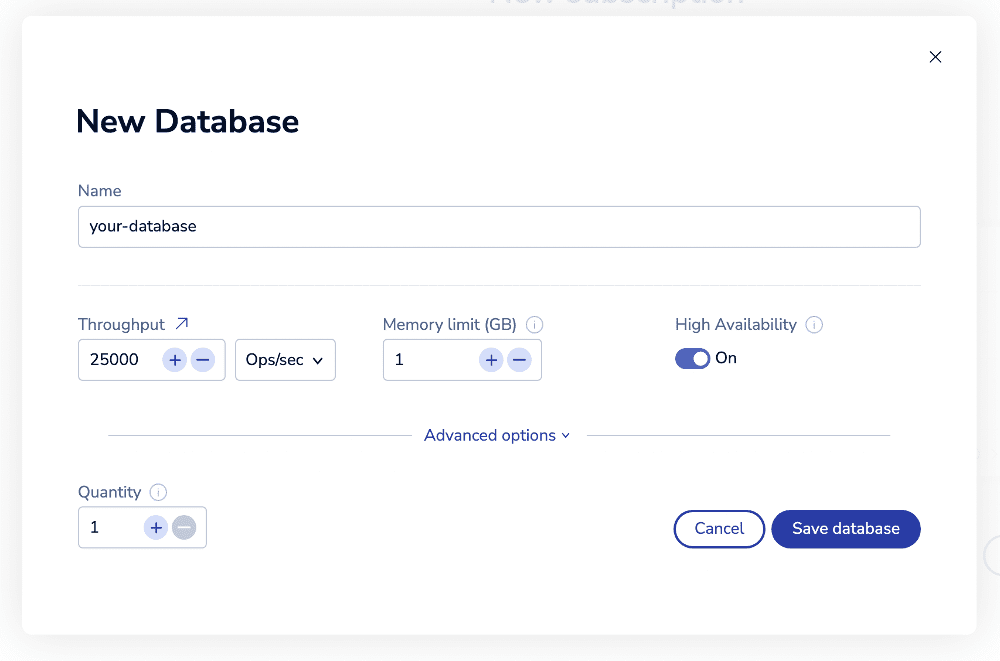
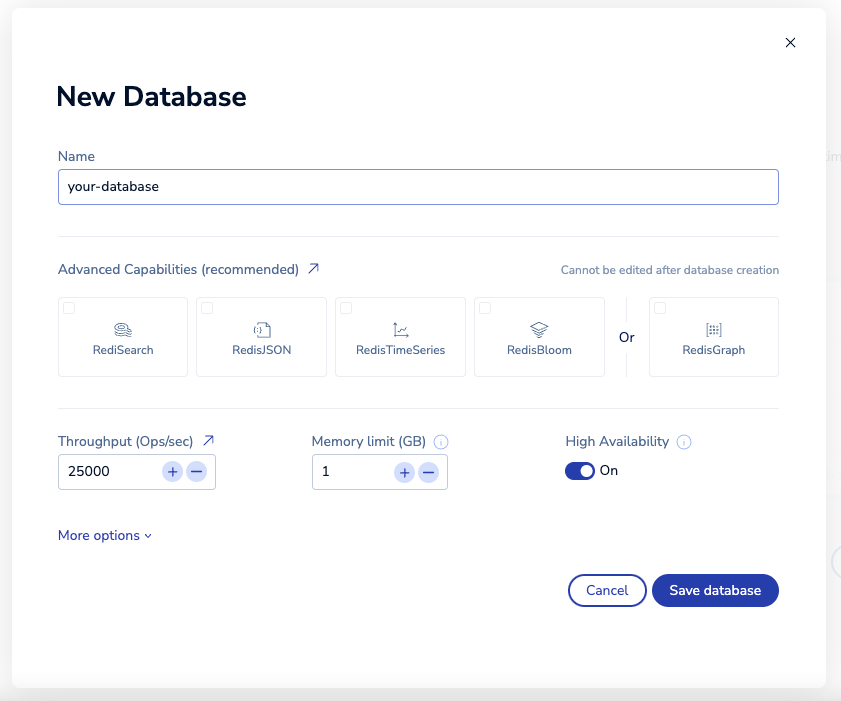
DOC-1964: Exposed the modules in the 'create new DB' flow (#2505)
* Changed text

* New screenshots

* add back in RedisTimeSeries

* Apply suggestions from code review

* Removed visible scroll bar

---------

diff --git a/content/rc/subscriptions/create-flexible-subscription.md b/content/rc/subscriptions/create-flexible-subscription.md
@@ -121,25 +121,24 @@ By default, you're shown basic settings, which include:
 | Database&nbsp;setting | Description |
 |:---------|:-----------|
 | **Name** | A custom name for your database (_required_) |
-| **Throughput/Shards** | Identifies maximum throughput for the database, which can be specified in terms of operations per second (**Ops/sec**) or number of shards dedicated to the database (**Shards**).throughput is measured for the database, either operations per second (_Ops/sec_) or _Number of shards_. |
+| **Advanced Capabilities** | Modules used by the database. Choose from [RedisSearch]({{< relref "/modules/redisearch/_index.md" >}}), [RedisJSON]({{< relref "/modules/redisjson/_index.md" >}}), [RedisTimeSeries]({{< relref "/modules/redistimeseries/_index.md" >}}), [RedisBloom]({{< relref "/modules/redisbloom/_index.md" >}}), or [RedisGraph]({{< relref "/modules/redisgraph/_index.md" >}}). |
+| **Throughput/Shards** | Identifies maximum throughput for the database, which can be specified in terms of operations per second (**Ops/sec**) or number of shards dedicated to the database (**Shards**). |
 | **Memory Limit (GB)** | The size limit for the database. Specify small sizes as decimals of 1.0&nbsp;GB; example: `0.1` GB (minimum).|
 | **High Availability** | Indicates whether a replica copy of the database is maintained in case the primary database becomes unavailable.  (Warning: Doubles memory consumption). |
 | **Quantity** | Identifies the number of databases to create with the selected settings. |
 
-Advanced options are also available.
+Select **More options** to specify values for the following settings.
 
 {{<image filename="images/rc/flexible-add-database-advanced.png" width="75%" alt="The New Database dialog with advanced settings." >}}{{< /image >}}
 
-Select **Advanced options** to specify values for the following settings:
-
-| Advanced&nbsp;option | Description |
+| Database&nbsp;option | Description |
 |:---------|:-----------|
 | **OSS Cluster API** | Enable to use the open-source Redis Cluster API. |
 | **Type** | Set to _Memcached_ database to support the legacy database; otherwise leave as _Redis_ |
 | **Data Persistence** | Defines the data persistence policy, if any. See [Database persistence]({{< relref "/rs/databases/configure/database-persistence.md" >}}) |
-| **Modules** | Identifies a module used by the database.  Choose from [RedisSearch&nbsp;2]({{< relref "/modules/redisearch/_index.md" >}}), [RedisJSON]({{< relref "/modules/redisjson/_index.md" >}}), [RedisGraph]({{< relref "/modules/redisgraph/_index.md" >}}), [RedisBloom]({{< relref "/modules/redisbloom/_index.md" >}}), or [RedisTimeSeries]({{< relref "/modules/redistimeseries/_index.md" >}}). |
+| **Quantity** | Number of databases to create with these settings. |
 
-When finished, select **Save Database** to create your database.
+When finished, select **Save database** to create your database.
 
 {{<image filename="images/rc/button-database-save.png" width="140px" alt="Select the Save Database button to define your new database." >}}{{< /image >}}
 

diff --git a/content/rc/databases/create-database.md b/content/rc/databases/create-database.md
@@ -87,16 +87,16 @@ You can select more than one module for a database, though there are limits:
 
 - The following modules can be combined in Flexible and Annual subscriptions:
 
-    - RediSearch 2
+    - RediSearch
     - RedisJSON
     - RedisTimeSeries
     - RedisBloom
 
-- RedisGraph cannot be combined with other modules
+- RedisGraph cannot be combined with other modules.
 
-- When you select RedisJSON, RediSearch 2 is automatically added because the modules complement each other.  
+- When you select RedisJSON, RediSearch is automatically added because the modules complement each other.  
 
-    You can remove RediSearch 2 if you prefer.
+    You can remove RediSearch if you prefer.
 
 You don't have to combine modules.  To remove a selected module, either clear the checkbox in the menu or select the module's **Delete** icon.  
 
